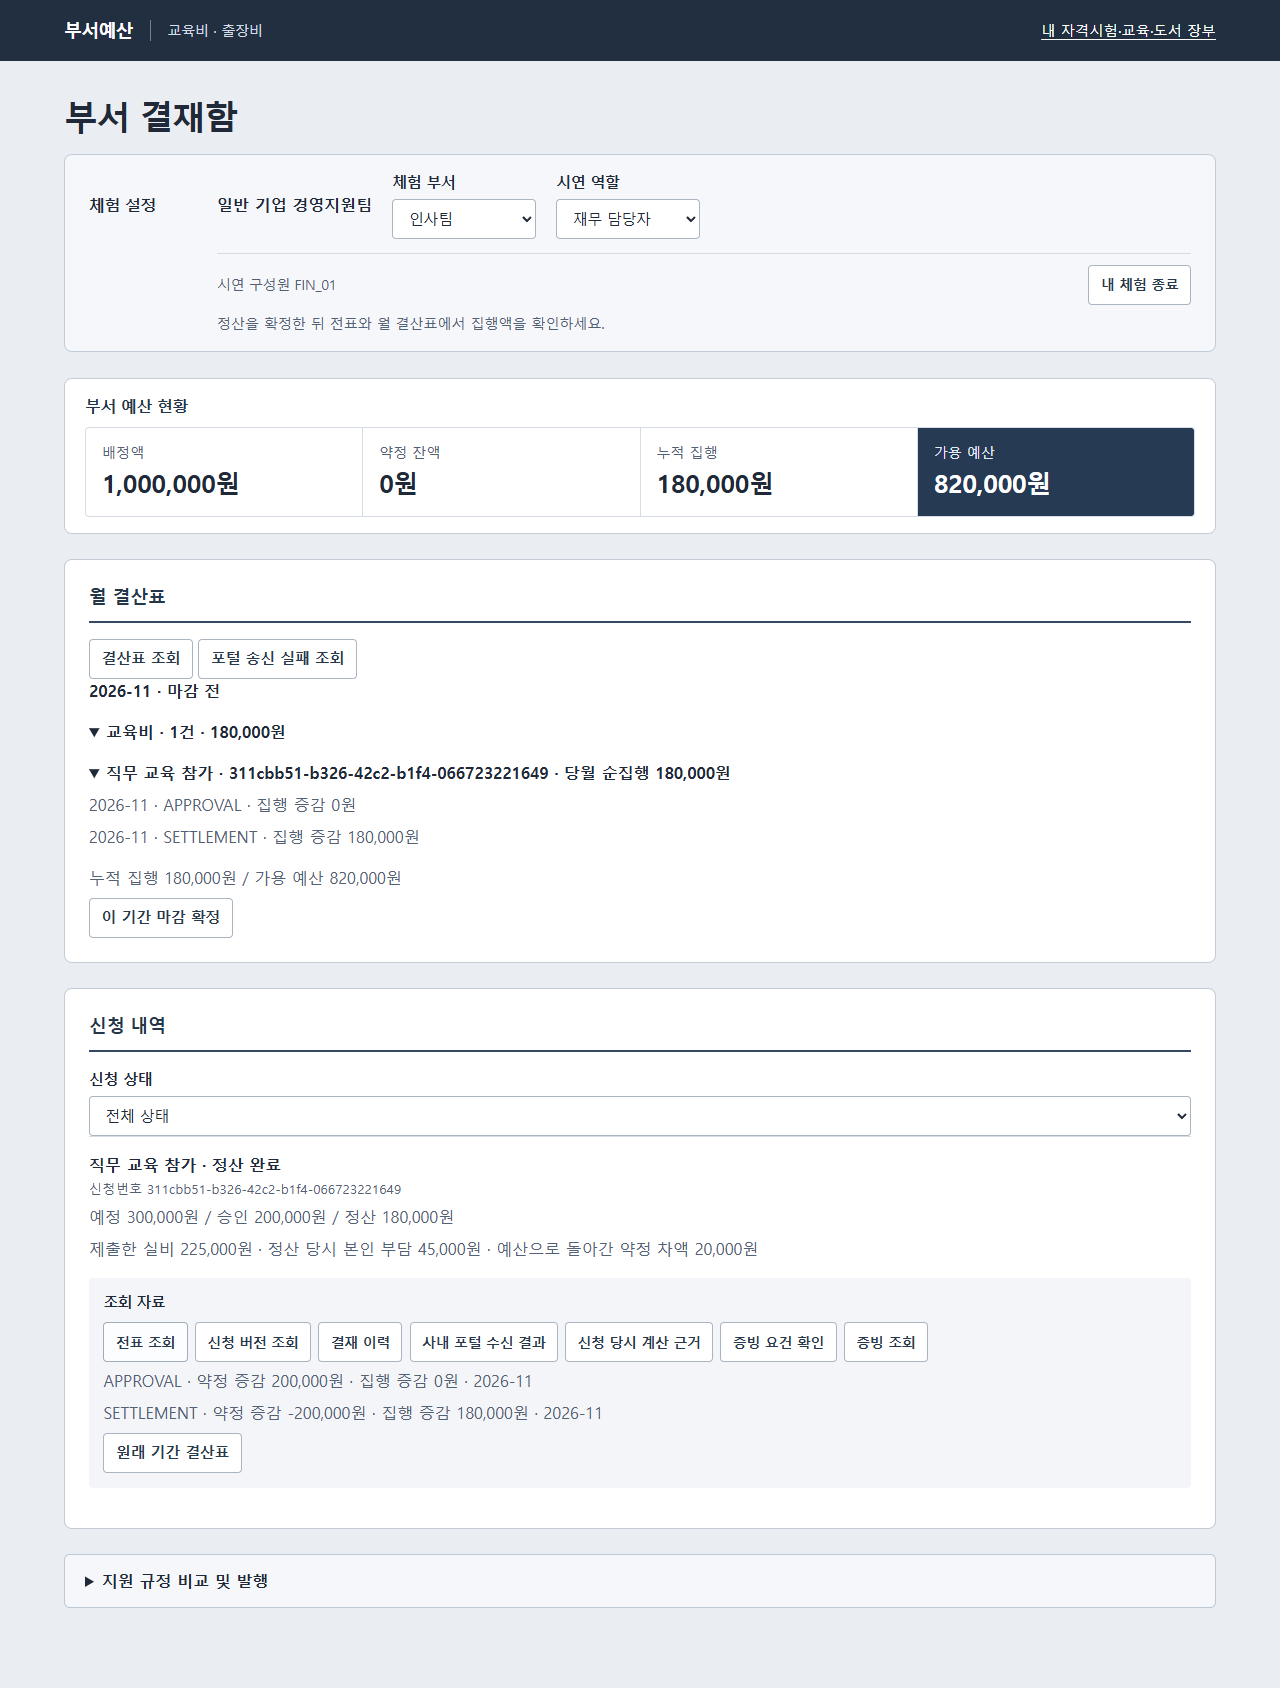
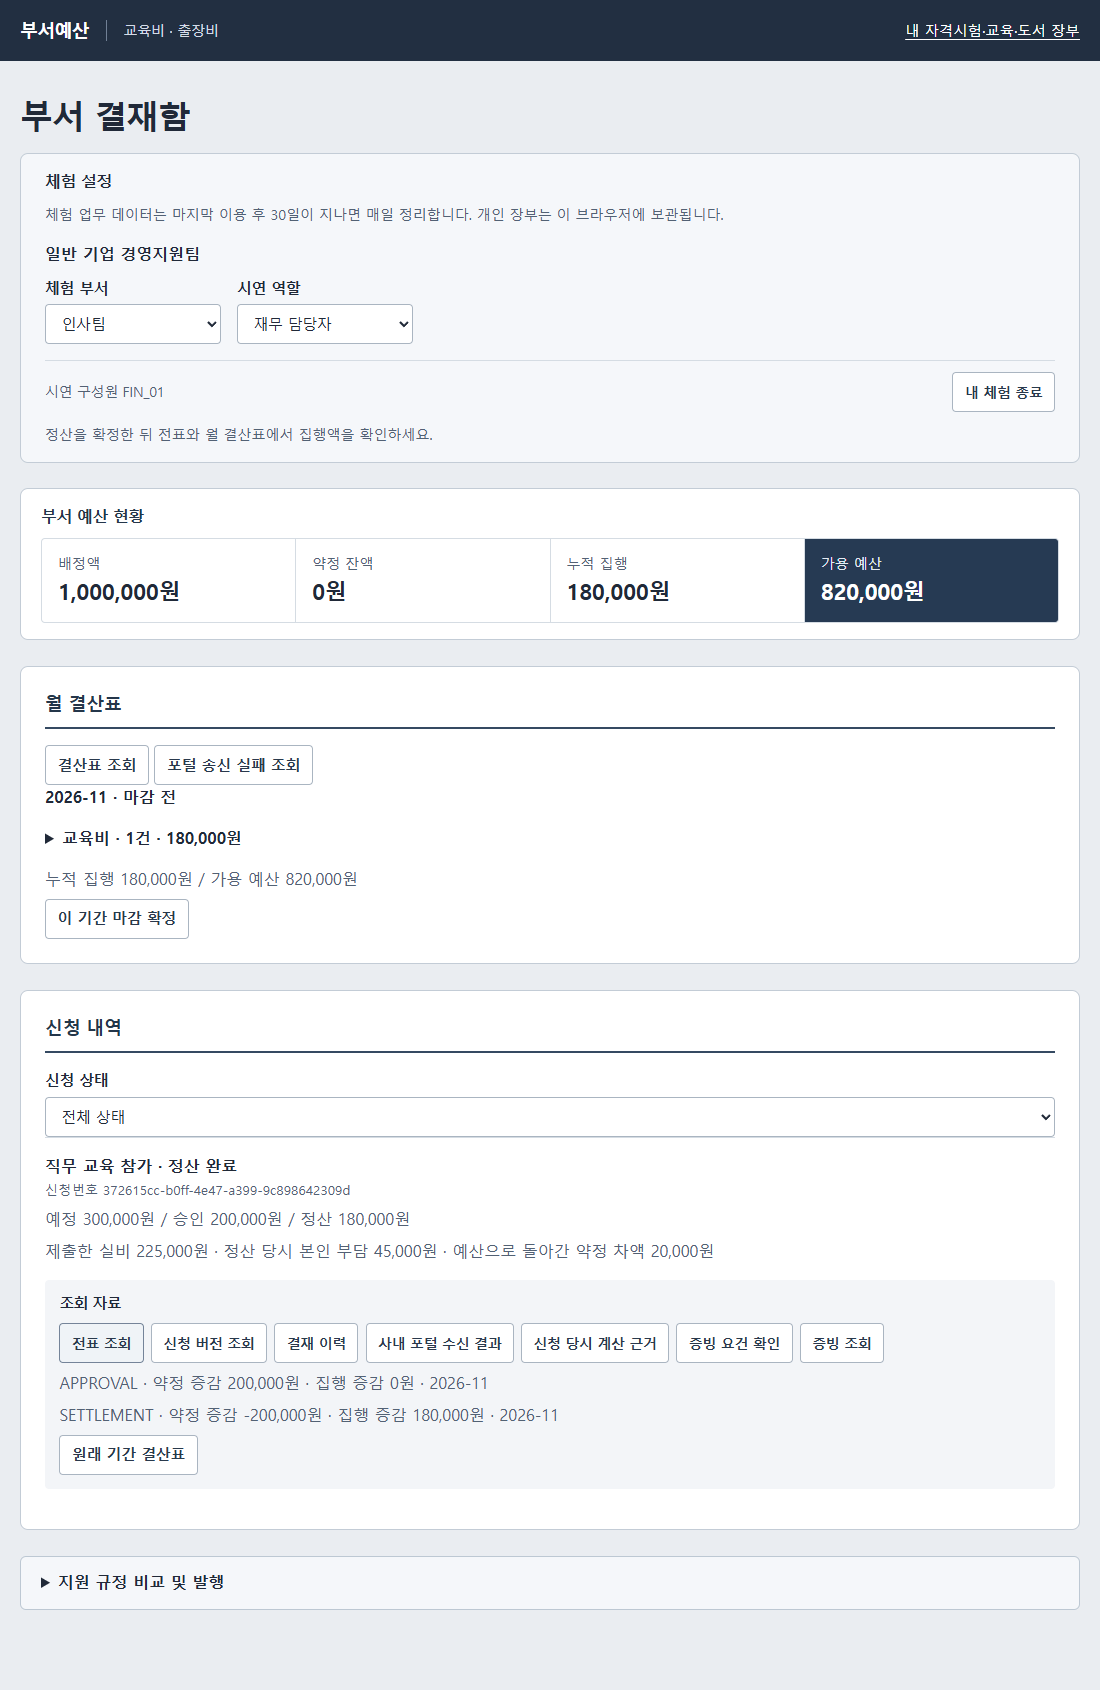
Update Demo Walkthrough Screenshots

diff --git a/docs/EMPLOYEE-INBOX.md b/docs/EMPLOYEE-INBOX.md
@@ -2,6 +2,8 @@
 
 교육비·출장비 신청을 등록하고, 같은 신청번호로 사전승인·증빙 보완·정산을 처리한다. **정산 검토**는 재무팀 검토 대기 상태다. **정산 완료**가 표시되면 집행액이 확정된 상태다.
 
+[실제 화면 기록](#공개-데모-화면-기록) · [대표 업무 따라가기](#대표-업무를-처음부터-끝까지-따라가기) · [대화형 업무 도우미](#대화형-업무-도우미)
+
 ## 시작과 링크 공유
 
 1. [공개 데모](https://129-225-133-96.sslip.io/)를 열고 **체험 조직**에서 **일반 기업 경영지원팀**을 고른다.
@@ -24,6 +26,33 @@
 | 6. 확정과 조회 | 재무 담당자가 **정산 확정**을 누른다. **전표 조회**와 **결산표 조회**에서 값을 확인한 뒤 직원으로 돌아가 같은 신청의 결과를 연다. | ‘정산 완료’. 약정 잔액 0원, 집행액 180,000원, 가용액 820,000원. |
 
 실비 225,000원의 80%는 180,000원이다. 직원 본인 부담은 45,000원이고 처음 잡아 둔 약정 중 20,000원은 가용액으로 돌아간다. [요청별 API와 계산 근거](API.md) · [Oracle 전표 대조 절차](ORACLE-WALKTHROUGH.md)
+
+## 공개 데모 화면 기록
+
+2026년 11월 23일 공개 데모에서 합성 교육비 신청 한 건을 처리하며 캡처했습니다. 화면 파일은 이 저장소에 들어 있어 데모 서버가 중지돼도 아래에서 볼 수 있습니다.
+
+**체험 시작** — 일반 기업 경영지원팀을 선택하고 **내 신청함 시작**을 누릅니다.
+
+![조직 선택과 내 신청함 시작 버튼이 보이는 부서 결재함](images/demo-start.png)
+
+**사전승인** — 직원이 신청한 300,000원 중 200,000원을 부서장이 약정했습니다. 다음 담당자는 실비를 제출할 직원입니다.
+
+![직무 교육 참가 신청의 약정 완료와 승인액 200,000원](images/demo-approval.png)
+
+**영수증 보완** — 재무 담당자의 보완 요청 후 직원이 업무 도우미에 `영수증 첨부해줘`를 입력한 화면입니다. 첨부를 확인한 뒤 `다시 제출해줘`로 같은 신청을 정산 검토에 올립니다.
+
+![선택한 교육비 신청의 합성 영수증 225,000원 첨부 확인](images/demo-receipt-assistant.png)
+
+**정산 결과** — 재무 담당자가 정산을 확정한 뒤 예산 현황, 월 결산표와 전표를 확인했습니다.
+
+![약정 잔액 0원, 집행액 180,000원, 가용 예산 820,000원이 표시된 예산 현황](images/demo-settlement-balance.png)
+
+<details>
+<summary>정산 전표·월 결산표 전체 화면</summary>
+
+![정산 완료 화면의 약정 잔액 0원, 집행액 180,000원, 가용 예산 820,000원과 승인·정산 전표](images/settlement.png)
+
+</details>
 
 ## 대화형 업무 도우미
 
